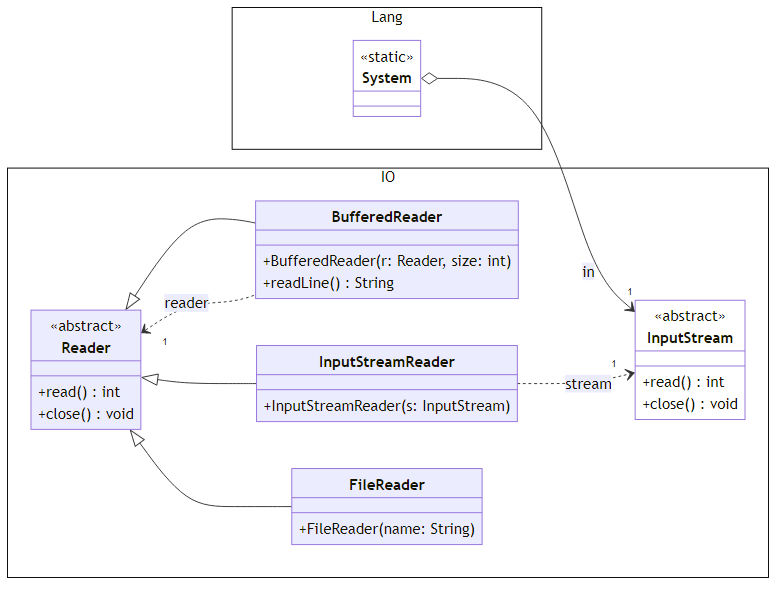
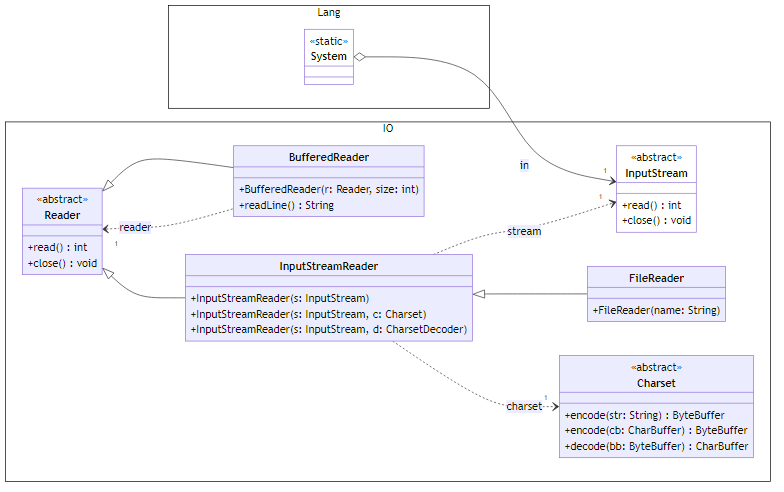
work on class diagrams for readers and writers

diff --git a/Grundlagen/Java.IO.md b/Grundlagen/Java.IO.md
@@ -113,7 +113,10 @@ out.close();
 
 ### Eingabe von Zeichenketten
 
-TODO
+Viele Anwendungen möchten Bytes ein- und ausgeben, sondern möchten stattdessen Zeichenketten verarbeiten.
+Wie du bereits wissen solltest, benötigt man für die Umwandlung von Bytes in Zeichenketten eine zugehörige Zeichencode-Tabelle (z.B. ASCII oder UTF-8).
+Des Weiteren sollte das Programm, das die Daten schreibt, mit derselben Zeichencode-Tabelle arbeiten wie das Programm, das die Daten wieder einliest.
+Java bietet für die Ein- und Ausgabe von Zeichenketten das Konzept der `Reader` und `Writer` im Paket `java.io` an, welches technisch auf dem Konzept der Eingabe- und Ausgabeströme basiert.
 
 ![](../Grafiken/IO/Reader.svg)
 
